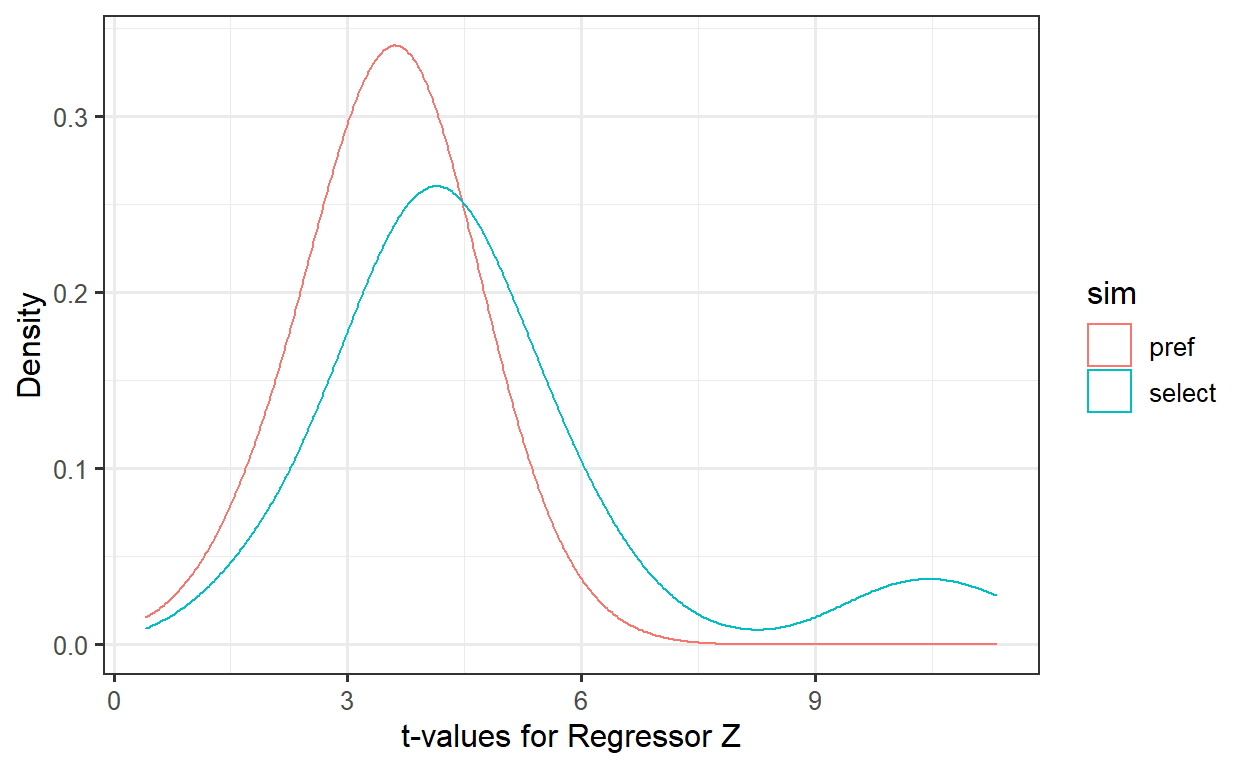
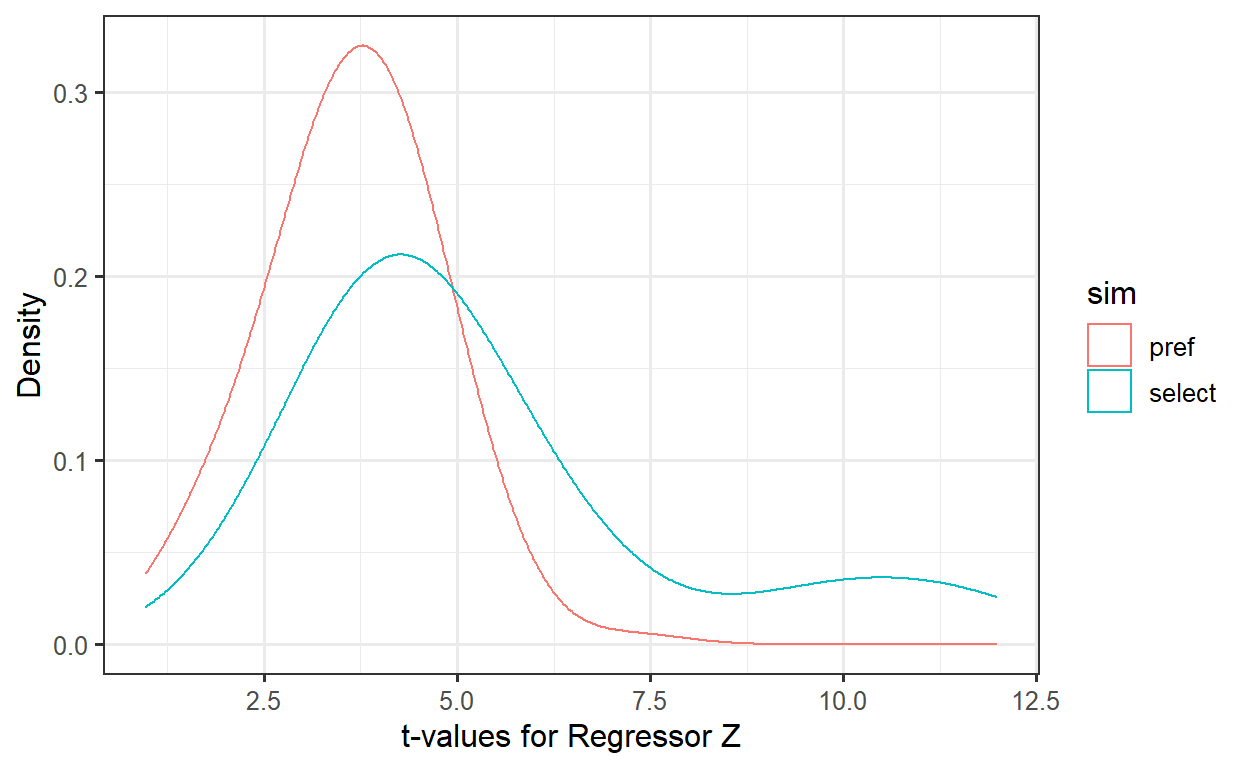
new updates to model bias draft

diff --git a/_posts/2021-12-20-model-selection-bias/model-selection-bias.html b/_posts/2021-12-20-model-selection-bias/model-selection-bias.html
@@ -1515,6 +1515,7 @@ class="uri">https://github.com/marwincarmo</a>
 <li><a href="#why-is-it-a-problem">Why is it a problem?</a>
 <ul>
 <li><a href="#a-first-example">A first example</a></li>
+<li><a href="#noise">Noise</a></li>
 </ul></li>
 <li><a href="#illustration">Illustration</a></li>
 <li><a href="#possible-solutions">Possible solutions</a>
@@ -1547,7 +1548,7 @@ research and often used to estimate causal effects <span
 class="citation" data-cites="berk2010">(<a href="#ref-berk2010"
 role="doc-biblioref">Berk, 2010</a>)</span>. However, to perform causal
 modeling, researchers must specify a “correct” model (i.e. an accurate
-model of the data generating process) prior do data collection and use
+model of the data generating process) prior to data collection and use
 the obtained data only to estimate regression coefficients (see <span
 class="citation" data-cites="berk2010">Berk (<a href="#ref-berk2010"
 role="doc-biblioref">2010</a>)</span> for a further discussion). In
@@ -1583,7 +1584,7 @@ data-cites="berkStatisticalInferenceModel2010">(<a
 href="#ref-berkStatisticalInferenceModel2010" role="doc-biblioref">Berk
 et al., 2010</a>)</span>.</p>
 <p>To see why, let’s consider a well defined population with it’s
-unknown parameter values. Our level 1 source of uncertainty lies on the
+unknown parameter values. One source of uncertainty lies on the
 randomness of the sample drawn. The “best” model found via variable
 selection is sample specific and isn’t guarantee to be the correct model
 (if we assume that one such model in fact exists). Suppose we repeat the
@@ -1620,40 +1621,40 @@ Show code
 <tbody>
 <tr class="odd">
 <td style="text-align: left;">M1</td>
-<td style="text-align: right;">0.1228</td>
+<td style="text-align: right;">0.1235</td>
 </tr>
 <tr class="even">
 <td style="text-align: left;">M2</td>
-<td style="text-align: right;">0.3757</td>
+<td style="text-align: right;">0.3900</td>
 </tr>
 <tr class="odd">
 <td style="text-align: left;">M3</td>
-<td style="text-align: right;">0.1281</td>
+<td style="text-align: right;">0.1185</td>
 </tr>
 <tr class="even">
 <td style="text-align: left;">M4</td>
-<td style="text-align: right;">0.1258</td>
+<td style="text-align: right;">0.1203</td>
 </tr>
 <tr class="odd">
 <td style="text-align: left;">M5</td>
-<td style="text-align: right;">0.1270</td>
+<td style="text-align: right;">0.1245</td>
 </tr>
 <tr class="even">
 <td style="text-align: left;">M6</td>
-<td style="text-align: right;">0.1206</td>
+<td style="text-align: right;">0.1232</td>
 </tr>
 </tbody>
 </table>
 </div>
 <p>To understand how the regression parameters estimates might be biased
-we need to remind that in a multiple regression we estimate <em>partial
-regression coefficients</em>: in a regression equation, the weight of
-independent variables are estimated in relation to the other independent
-variables in the model <span class="citation" data-cites="cohen1983">(<a
-href="#ref-cohen1983" role="doc-biblioref">Cohen &amp; Cohen,
-1983</a>)</span>. For a dependent variable, <span
-class="math inline">\(Y\)</span>, predicted by variables <span
-class="math inline">\(X_1\)</span> and <span
+recall that in a multiple regression we estimate <em>partial regression
+coefficients</em>: in a regression equation, the weight of independent
+variables are estimated <strong>in relation to</strong> the other
+independent variables in the model <span class="citation"
+data-cites="cohen1983">(<a href="#ref-cohen1983"
+role="doc-biblioref">Cohen &amp; Cohen, 1983</a>)</span>. For a
+dependent variable, <span class="math inline">\(Y\)</span>, predicted by
+variables <span class="math inline">\(X_1\)</span> and <span
 class="math inline">\(X_2\)</span>, <span class="math inline">\(B_{Y1
 \cdot 2}\)</span> is the partial regression coefficient for <span
 class="math inline">\(Y\)</span> on <span
@@ -1729,10 +1730,10 @@ class="math inline">\(\beta_{yx\cdot z}\)</span>.</p>
 y_i = \beta_0 + \beta_1x_i + \beta_2z_i + \varepsilon_i
 \tag{4}
 \end{equation}\]</span></p>
-<p>Now, suppose that we have the following scenario, where <span
+<p>Now, suppose that we’re in a scenario, where <span
 class="math inline">\(\rho_{xz}\)</span> = 0.5, both <span
-class="math inline">\(\beta_x\)</span> and <span
-class="math inline">\(\beta_y\)</span> are set to 1 and <span
+class="math inline">\(\beta_1\)</span> and <span
+class="math inline">\(\beta_2\)</span> are set to 1 and <span
 class="math inline">\(\varepsilon \sim N(0, 10)\)</span>. We’ll use a
 sample size of 250 subjects and 1000 random samples will be drawn from
 this population. We’ll calculate coverage and bias for each regressor.
@@ -1797,13 +1798,13 @@ Show code
 <tbody>
 <tr class="odd">
 <td style="text-align: left;">x</td>
-<td style="text-align: right;">0.954</td>
-<td style="text-align: right;">0.0088752</td>
+<td style="text-align: right;">0.953</td>
+<td style="text-align: right;">0.0088806</td>
 </tr>
 <tr class="even">
 <td style="text-align: left;">z</td>
-<td style="text-align: right;">0.956</td>
-<td style="text-align: right;">0.0008830</td>
+<td style="text-align: right;">0.949</td>
+<td style="text-align: right;">-0.0071937</td>
 </tr>
 </tbody>
 </table>
@@ -1832,7 +1833,7 @@ z}\)</span> is estimated assuming <span class="math inline">\(x\)</span>
 and <span class="math inline">\(z\)</span> are always included in the
 model.</p>
 <p>What would happen if by model selection we arrive at a model where
-<span class="math inline">\(z\)</span> is excluded. If <span
+<span class="math inline">\(z\)</span> is excluded? If <span
 class="math inline">\(z\)</span> is excluded, any correlation where
 <span class="math inline">\(z\)</span> is involved is equivalent to
 zero, and we’re left with,</p>
@@ -1845,10 +1846,11 @@ same as <span class="math inline">\(\beta_{yx\cdot z}\)</span>. If we do
 not have a model specified prior to data collection and analysis, it is
 not clear which definition of regression parameter for <span
 class="math inline">\(x\)</span> we’re trying to estimate, if <span
-class="math inline">\(\beta_{yx\cdot z}\)</span>, exemplified on
-<a href="#eq:beta12">(2)</a> or if <span class="math inline">\(\beta_{yx}\)</span>.
-Therefore, the definition of <span class="math inline">\(x\)</span>
-depends on the model in which it is placed.</p>
+class="math inline">\(\beta_{yx\cdot z}\)</span>, as exemplified on
+equation <a href="#eq:beta12">(2)</a> or if <span
+class="math inline">\(\beta_{yx}\)</span>. Therefore, the definition of
+<span class="math inline">\(x\)</span> depends on the model in which it
+is placed.</p>
 <div class="layout-chunk" data-layout="l-body">
 <details>
 <summary>
@@ -1866,7 +1868,7 @@ Show code
 <span class='kw'>for</span> <span class='op'>(</span><span class='va'>i</span> <span class='kw'>in</span> <span class='fu'><a href='https://rdrr.io/r/base/seq.html'>seq</a></span><span class='op'>(</span><span class='va'>reps</span><span class='op'>)</span><span class='op'>)</span> <span class='op'>{</span>
   <span class='co'>#print(i)</span>
   <span class='va'>X</span> <span class='op'>&lt;-</span>  <span class='fu'>MASS</span><span class='fu'>::</span><span class='fu'><a href='https://rdrr.io/pkg/MASS/man/mvrnorm.html'>mvrnorm</a></span><span class='op'>(</span>n <span class='op'>=</span> <span class='va'>n</span>, <span class='fu'><a href='https://rdrr.io/r/base/rep.html'>rep</a></span><span class='op'>(</span><span class='fl'>0</span>, <span class='fl'>2</span><span class='op'>)</span> , <span class='va'>Sigma</span><span class='op'>)</span>
-  <span class='va'>y</span> <span class='op'>&lt;-</span> <span class='fu'><a href='https://rdrr.io/r/base/numeric.html'>as.numeric</a></span><span class='op'>(</span><span class='fu'><a href='https://rdrr.io/r/base/cbind.html'>cbind</a></span><span class='op'>(</span><span class='fl'>1</span>, <span class='va'>X</span><span class='op'>)</span> <span class='op'><a href='https://rdrr.io/r/base/matmult.html'>%*%</a></span> <span class='fu'><a href='https://rdrr.io/r/base/c.html'>c</a></span><span class='op'>(</span><span class='va'>b0</span>, <span class='va'>betas</span><span class='op'>)</span> <span class='op'>+</span> <span class='fu'><a href='https://rdrr.io/r/stats/Normal.html'>rnorm</a></span><span class='op'>(</span><span class='va'>n</span>, <span class='fl'>0</span>, <span class='fu'><a href='https://rdrr.io/r/base/MathFun.html'>sqrt</a></span><span class='op'>(</span><span class='fl'>1</span><span class='op'>)</span><span class='op'>)</span><span class='op'>)</span>
+  <span class='va'>y</span> <span class='op'>&lt;-</span> <span class='fu'><a href='https://rdrr.io/r/base/numeric.html'>as.numeric</a></span><span class='op'>(</span><span class='fu'><a href='https://rdrr.io/r/base/cbind.html'>cbind</a></span><span class='op'>(</span><span class='fl'>1</span>, <span class='va'>X</span><span class='op'>)</span> <span class='op'><a href='https://rdrr.io/r/base/matmult.html'>%*%</a></span> <span class='fu'><a href='https://rdrr.io/r/base/c.html'>c</a></span><span class='op'>(</span><span class='va'>b0</span>, <span class='va'>betas</span><span class='op'>)</span> <span class='op'>+</span> <span class='fu'><a href='https://rdrr.io/r/stats/Normal.html'>rnorm</a></span><span class='op'>(</span><span class='va'>n</span>, <span class='fl'>0</span>, <span class='fu'><a href='https://rdrr.io/r/base/MathFun.html'>sqrt</a></span><span class='op'>(</span><span class='fl'>10</span><span class='op'>)</span><span class='op'>)</span><span class='op'>)</span>
   <span class='va'>Xy</span> <span class='op'>&lt;-</span> <span class='fu'><a href='https://rdrr.io/r/base/as.data.frame.html'>as.data.frame</a></span><span class='op'>(</span> <span class='fu'><a href='https://rdrr.io/r/base/cbind.html'>cbind</a></span><span class='op'>(</span><span class='va'>X</span>, <span class='va'>y</span><span class='op'>)</span><span class='op'>)</span>
   <span class='fu'><a href='https://rdrr.io/r/base/colnames.html'>colnames</a></span><span class='op'>(</span><span class='va'>Xy</span><span class='op'>)</span> <span class='op'>&lt;-</span> <span class='fu'><a href='https://rdrr.io/r/base/c.html'>c</a></span><span class='op'>(</span><span class='fu'><a href='https://rdrr.io/r/base/c.html'>c</a></span><span class='op'>(</span><span class='st'>"x"</span>, <span class='st'>"z"</span><span class='op'>)</span>, <span class='st'>"y"</span><span class='op'>)</span>
   <span class='va'>fit</span> <span class='op'>&lt;-</span> <span class='fu'><a href='https://rdrr.io/r/stats/lm.html'>lm</a></span><span class='op'>(</span><span class='va'>y</span> <span class='op'>~</span> <span class='va'>x</span>, data <span class='op'>=</span> <span class='va'>Xy</span><span class='op'>)</span>
@@ -1880,13 +1882,6 @@ Show code
 <span class='va'>cover1b</span> <span class='op'>&lt;-</span> <span class='fu'><a href='https://rdrr.io/r/base/colSums.html'>colMeans</a></span><span class='op'>(</span><span class='va'>cover</span><span class='op'>)</span><span class='op'>[</span><span class='fl'>1</span><span class='op'>]</span>
 <span class='co'># bias</span>
 <span class='va'>bias1b</span> <span class='op'>&lt;-</span> <span class='fu'><a href='https://rdrr.io/r/base/colSums.html'>colMeans</a></span><span class='op'>(</span><span class='op'>(</span><span class='va'>coefs</span> <span class='op'>-</span> <span class='va'>betas</span><span class='op'>)</span><span class='op'>^</span><span class='fl'>2</span><span class='op'>)</span><span class='op'>[</span><span class='fl'>1</span><span class='op'>]</span>
-
-<span class='co'># tibble::tibble(</span>
-<span class='co'>#   Predictor = c("x", "z"),</span>
-<span class='co'>#   Coverage = colMeans(cover),</span>
-<span class='co'>#   Bias = colMeans(coefs - betas)</span>
-<span class='co'># ) |&gt; </span>
-<span class='co'>#   knitr::kable()</span>
 </code></pre>
 </div>
 </details>
@@ -1913,22 +1908,59 @@ Show code
 <p>Notice how far off the latter model estimates the coefficient for
 <span class="math inline">\(x\)</span>. Under these conditions, we
 should expect a coverage of the true coefficient value of <span
-class="math inline">\(x\)</span> of 0 and a bias of 0.257. Under the
+class="math inline">\(x\)</span> of 0.33 and a bias of 0.289. Under the
 correct model, bias is negligible and coverage follows the Type I error
 rate of 5% that we’ve set for this exercise.</p>
 <p>This simple example help us understand why estimate model parameters
 in the same single random sample used to find an appropriate model isn’t
 a good idea (at least not without taking this process in account prior
 to making inferences). Discarding <span class="math inline">\(z\)</span>
-from our model has completely distorted the sampling distribution of
-<span class="math inline">\(x\)</span>. Thus, as <span class="citation"
+from our model has distorted the sampling distribution of <span
+class="math inline">\(x\)</span>. Thus, as <span class="citation"
 data-cites="berkStatisticalInferenceModel2010">Berk et al. (<a
 href="#ref-berkStatisticalInferenceModel2010"
 role="doc-biblioref">2010</a>)</span> puts it: “when a single model is
 not specified before the analysis begins, it is not clear what
 population parameter is the subject of study. And without this clarity,
 the reasoning behind statistical inference becomes obscure”.</p>
-<p>Now is a good time to pause and ponder. We already know that</p>
+<p>Now is a good time to pause and ponder. We already know that if two
+predictors are moderately correlated and one is dropped from the model,
+our estimation will be biased. But what else should we consider? If you
+are selecting the variable every time, then there is not issue. In the
+following sections we’ll consider what can make things “bad”. But before
+that, please consider the equation for the standard error of the
+regression coefficient estimated in our first example that hasn’t gone
+through model selection,</p>
+<p><span class="math display" id="eq:sebxy">\[\begin{equation}
+SE(\beta_{yx\cdot z}) = \frac{\hat{\sigma_{\varepsilon}}}{s_x
+\sqrt{n-1}}\sqrt{\frac{1}{1-r^2_{xy}}}
+\tag{6}
+\end{equation}\]</span></p>
+<p>We’ll use simulated data to aid our understanding. I have build a <a
+href="https://marwin.shinyapps.io/model-selection-app/">ShinyApp</a> for
+that end. Its purpose is to illustrate the problems that arise when
+model selection, parameters estimation and statistical inferences are
+undertaken with the same data set. Although I will be working with code
+in this post, everything can also be reproduced via this app.</p>
+<p>simular com um range de valores para cada elemento que traz
+problema</p>
+<h2 id="noise">Noise</h2>
+<p>To express the variability we can use the “signal-to-noise” ratio
+(SNR). This term is defined as:</p>
+<p><span class="math display">\[\frac{S}{N} =
+\textbf{b}\Sigma\textbf{b}\sigma^{-2}\]</span> where, <span
+class="math inline">\(\textbf{b}\)</span> is a (<em>p</em> + 1) <span
+class="math inline">\(\times\)</span> 1 vector of regression
+coefficients, <span class="math inline">\(\Sigma\)</span> is the
+covariance matrix of predictors and <span
+class="math inline">\(\sigma^2\)</span> is the error term variance.</p>
+<ul>
+<li>SNR</li>
+<li>Sample size</li>
+<li>predictors</li>
+<li>BIC/AIC</li>
+<li>correlacao</li>
+</ul>
 <p>Now there is a good opportunity for a simulation exercise. To
 illustrate what we have been talking so far, <span class="citation"
 data-cites="berkStatisticalInferenceModel2010">Berk et al. (<a
@@ -1941,12 +1973,12 @@ class="math inline">\(M_2\)</span>. Define <span
 class="math inline">\(M_1\)</span> to be</p>
 <p><span class="math display" id="eq:m11">\[\begin{equation}
 y_i = \beta_0 + \beta_1x_i + \beta_2z_i + \varepsilon_i
-\tag{6}
+\tag{7}
 \end{equation}\]</span></p>
 <p>and <span class="math inline">\(M_2\)</span> to be</p>
 <p><span class="math display" id="eq:m2">\[\begin{equation}
 y_i = \beta_0 + \beta_1x_i + \varepsilon_i
-\tag{7}
+\tag{8}
 \end{equation}\]</span></p>
 <p>Because in <span class="math inline">\(M_2\)</span> <span
 class="math inline">\(z_i\)</span> is absent,</p>
